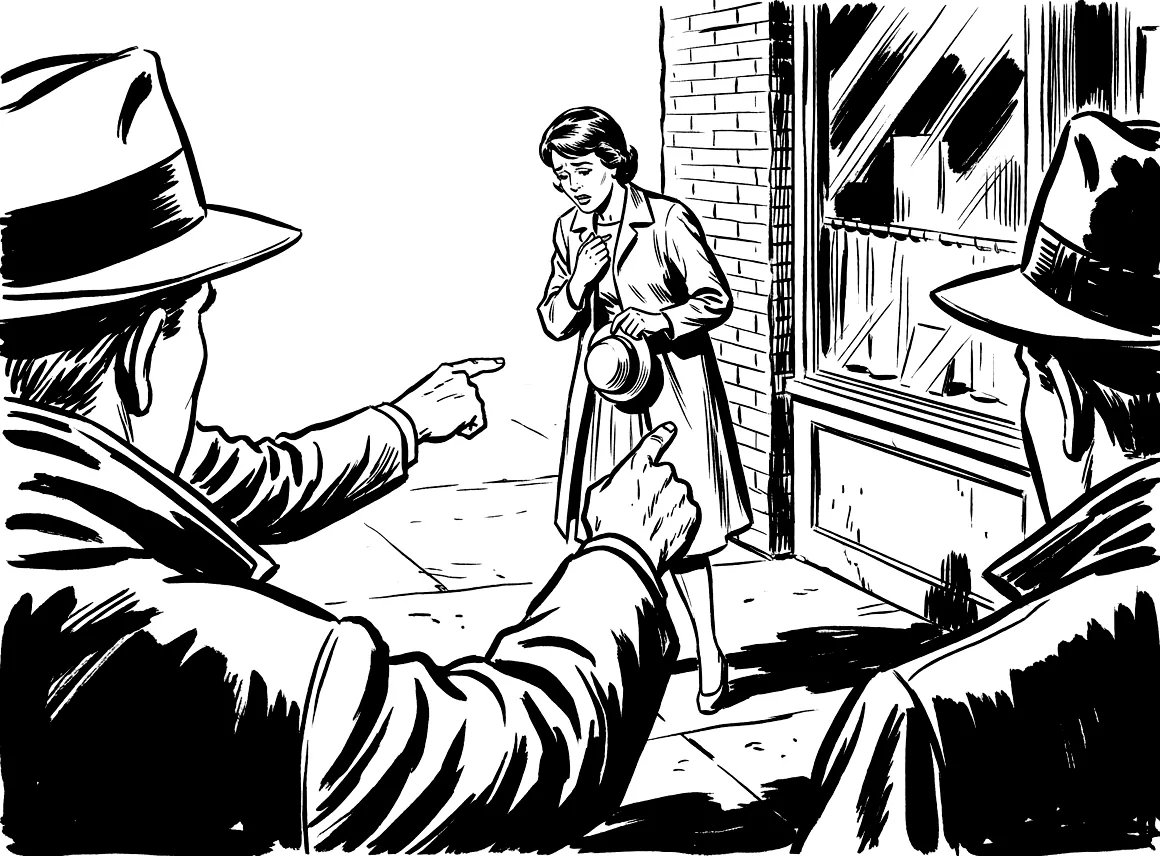
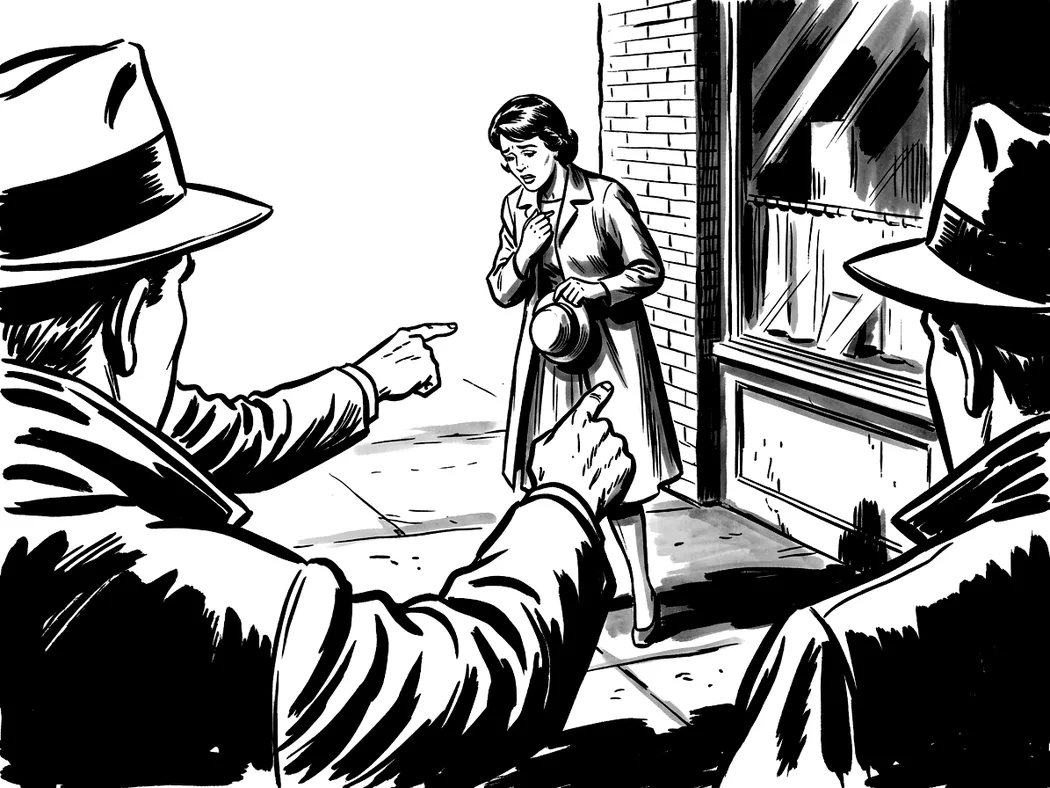
Rita om domen i den nya stilen, med advokaten från rollbilden
Jonas tog fram bilderna själv i Gemini med den egna gamla bilden som
referens. Advokaten är personen från rollbilden av motsatt kön (Jonas
2026-11-15).

Claude-Session: https://claude.ai/code/session_01X82C4AptUEE9LHKngPSzUq

diff --git a/src/scenes/sceneImages.js b/src/scenes/sceneImages.js
@@ -151,8 +151,8 @@ export const SCENE_IMAGES = /** @type {const} */ ({
   morningMurderPhoneBoothWoman: { src: morningMurderPhoneBoothWoman, alt: 'En kvinna i ljus kappa sitter död i en telefonkiosk i regnet med hatten i knät. Luren hänger i sin sladd ovanför henne.', position: '45% 50%' },
   morningNoMurder: { src: morningNoMurder, alt: 'En regnvåt gata på morgonen. En mjölkbud ställer flaskor på en trappa, och en man i hatt läser tidningen mot en vägg.', position: '65% 50%' },
   verdictWoman: { src: verdictWoman, alt: 'Två män i hatt pekar på en rädd kvinna som står med hatten i handen vid en tegelvägg.', position: '50% 40%' },
-  verdictLawyerWoman: { src: verdictLawyerWoman, alt: 'Två män i hatt pekar på en rädd kvinna, men en advokat i lång rock och hatt har klivit fram bredvid henne och håller upp handen.', position: '55% 40%' },
-  verdictLawyerMan: { src: verdictLawyerMan, alt: 'Två män i hatt pekar på en rädd man, men en advokat i lång rock och hatt har klivit fram bredvid honom och håller upp handen.', position: '55% 40%' },
+  verdictLawyerWoman: { src: verdictLawyerWoman, alt: 'Två män i hatt pekar på en rädd kvinna, men en gråhårig advokat i randig kostym med väst har klivit fram framför henne och håller upp handen.', position: '55% 40%' },
+  verdictLawyerMan: { src: verdictLawyerMan, alt: 'Två män i hatt pekar på en rädd man, men en advokat i knäppt dräkt och liten hatt har klivit fram framför honom och håller upp handen.', position: '55% 40%' },
   verdictMan: { src: verdictMan, alt: 'Två män i hatt pekar på en rädd man som står med hatten i händerna vid en tegelvägg.', position: '50% 40%' },
   verdictNobody: { src: verdictNobody, alt: 'Stadsborna står kvar på en våt gata efter omröstningen. Två män skakar hand, några står och tittar, och en man går därifrån.', position: '30% 50%' },
   mafiaWins: { src: mafiaWins, alt: 'Två män i rock och hatt står på ett tak och ser ut över den mörka staden. Den ena tänder en cigarett.', position: '30% 40%' },

diff --git a/docs/bildsmak.md b/docs/bildsmak.md
@@ -354,6 +354,11 @@ en regel.
   för grå och sedan "inte alls bra". Den gamla har inte samma stil som de
   andra, så den gjordes med `morgon-mord-polis-man` som stilreferens: "den
   är bra!".
+  `dom-man`, `dom-kvinna`, `dom-advokat-kvinna` och `dom-advokat-man` ritade
+  Jonas själv om 2026-11-16 i Gemini, med en bifogad bild var: den egna
+  gamla bilden. Advokaten i domen är personen från rollbilden av motsatt
+  kön: advokaten (man) hos den anklagade kvinnan och tvärtom (Jonas
+  2026-11-15).
 
 ## Bilder att byta
 
